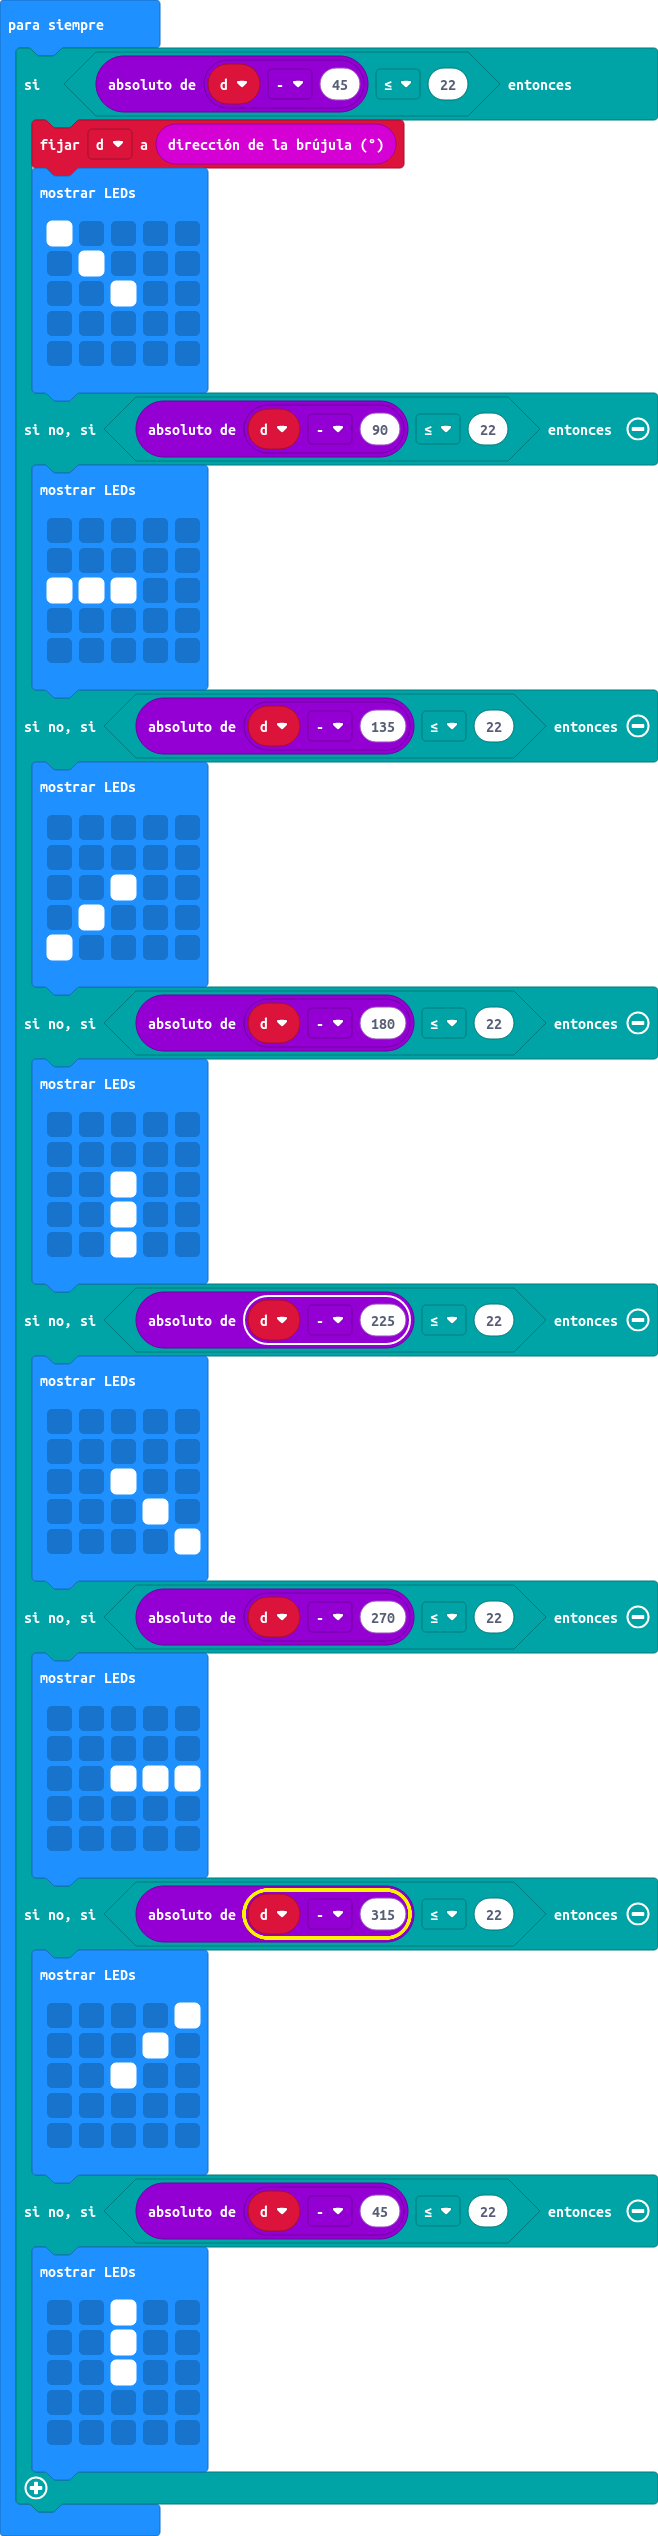
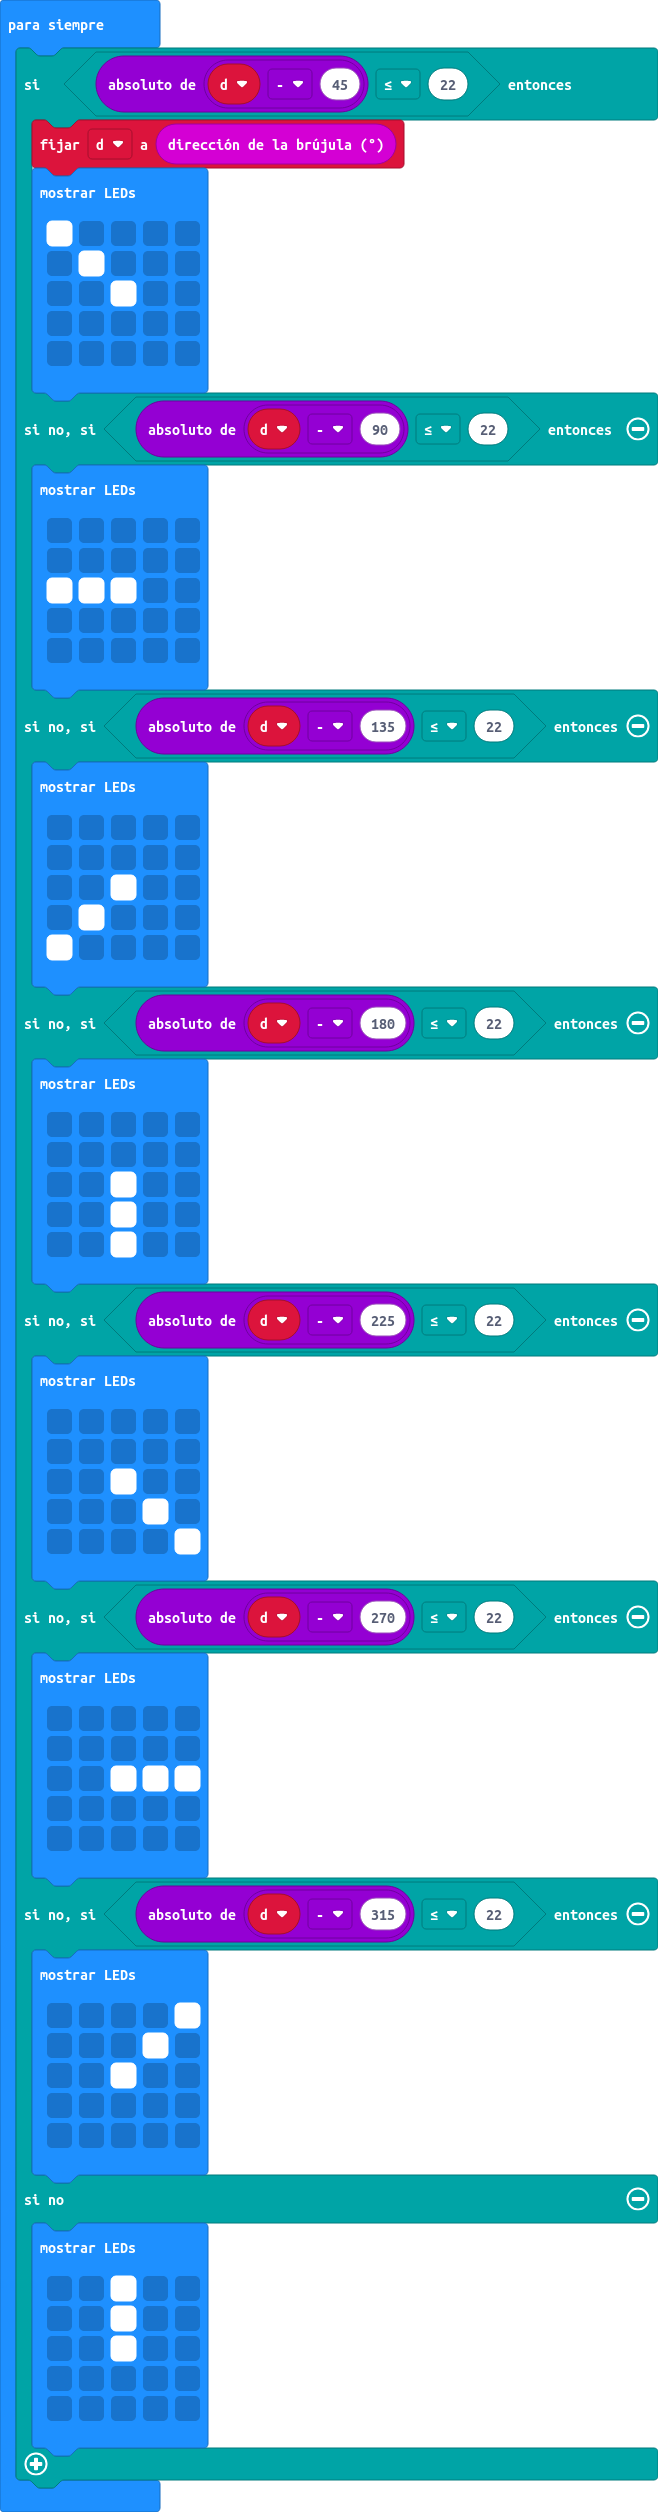
Actualizar main.blocks, main.ts

Changed region(s): [[0.0304, 0.0311, 1.0, 0.9315], [0.6687, 0.0311, 0.6991, 0.0621]]

diff --git a/main.ts b/main.ts
@@ -57,7 +57,7 @@ basic.forever(function () {
             . . . . .
             . . . . .
             `)
-    } else if (Math.abs(d - 45) <= 22) {
+    } else {
         basic.showLeds(`
             . . # . .
             . . # . .
